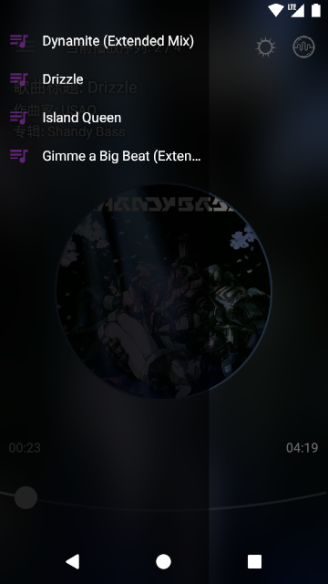
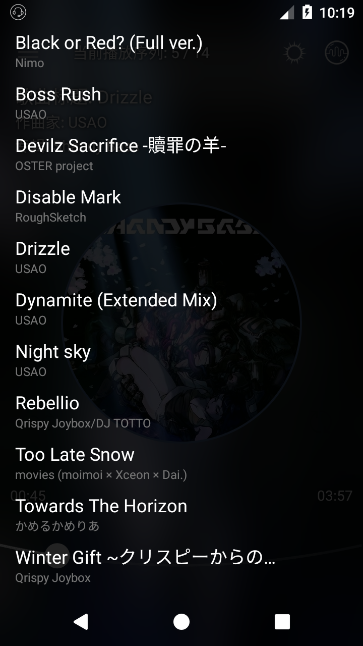
新的播放界面侧滑版面 准备发布 1.3.9版本

diff --git a/app/src/main/java/com/ocwvar/darkpurple/Adapters/SlidingListAdapter.java b/app/src/main/java/com/ocwvar/darkpurple/Adapters/SlidingListAdapter.java
@@ -38,9 +38,11 @@ public class SlidingListAdapter extends RecyclerView.Adapter {
 
     @Override
     public void onBindViewHolder(RecyclerView.ViewHolder holder, int position) {
-        SlideMusicViewHolder slideMusicViewHolder = (SlideMusicViewHolder) holder;
-        SongItem songItem = songItems.get(position);
+        final SlideMusicViewHolder slideMusicViewHolder = (SlideMusicViewHolder) holder;
+        final SongItem songItem = songItems.get(position);
+
         slideMusicViewHolder.title.setText(songItem.getTitle());
+        slideMusicViewHolder.message.setText(songItem.getArtist());
     }
 
     @Override
@@ -60,11 +62,12 @@ public class SlidingListAdapter extends RecyclerView.Adapter {
 
     private class SlideMusicViewHolder extends RecyclerView.ViewHolder implements View.OnClickListener {
 
-        TextView title;
+        final TextView title, message;
 
         SlideMusicViewHolder(View itemView) {
             super(itemView);
-            title = itemView.findViewById(R.id.textView);
+            title = itemView.findViewById(R.id.title);
+            message = itemView.findViewById(R.id.message);
 
             itemView.setOnClickListener(this);
         }

diff --git a/app/src/main/java/com/ocwvar/darkpurple/Activities/PlayingActivity.java b/app/src/main/java/com/ocwvar/darkpurple/Activities/PlayingActivity.java
@@ -248,6 +248,7 @@ public class PlayingActivity
             drawerLayout.setDrawerLockMode(DrawerLayout.LOCK_MODE_LOCKED_CLOSED);
         } else {
             drawerLayout.setDrawerLockMode(DrawerLayout.LOCK_MODE_UNLOCKED);
+            drawerLayout.setScrimColor(Color.argb(220, 0, 0, 0));
         }
 
         if (!AppConfigs.useCompatMode && AppConfigs.StatusBarHeight > 0 && Build.VERSION.SDK_INT >= Build.VERSION_CODES.KITKAT) {

diff --git a/changelog.md b/changelog.md
@@ -1,3 +1,7 @@
+# 版本 1.3.9
+- 1.添加新版本检查
+- 2.新的播放界面侧滑版面
+- 3.修正逻辑错误
 # 版本 1.3.8
 - 1.均衡器功能已完成，在播放界面点击右上角按钮即可进入
 - 2.现已支持外置SD储存卡内的音频扫描。由于Android 6.0+的限制，暂不可以进行音频的删除操作
@@ -20,7 +24,7 @@
 - 修正因 STOP 而导致的一系列问题
 - 修正通过 Notification 进入界面，播放界面 按钮消失问题
 # 版本 1.3.5
-- 增加音频格式支持 WAV、OOG、FLAC
+- 增加音频格式支持 WAV、OGG、FLAC
 # 版本 1.3
 - 采用系统组件 MediaBrowserServiceCompat 作为音频服务，提高应用兼容性
 - 采用系统组件 MediaStyle 的 Notification

diff --git a/README.md b/README.md
@@ -1,7 +1,7 @@
 ![](https://github.com/ocwvar/DarkPurple/blob/dev/app/showcase/logo.png) 
  
 # 应用下载 ![](https://travis-ci.org/ocwvar/DarkPurple.svg?branch=dev)
-## 版本：1.3.8 1708161900
+## 版本：1.3.9 1708171821
 Github：https://github.com/ocwvar/DarkPurple/releases
 
 更新日志：https://github.com/ocwvar/DarkPurple/blob/dev/changelog.md
@@ -53,7 +53,7 @@ CoverBox 的作者为 Henry Hu
 - 均衡器功能 √ 
 - 自动更新 →
 
-# 截图展示 (2017/8/06 19：02)
+# 截图展示 (2017/8/17 18：21)
 ##### *截图无法展示所有应用的细节*
 
 ### 主界面<p></p>
